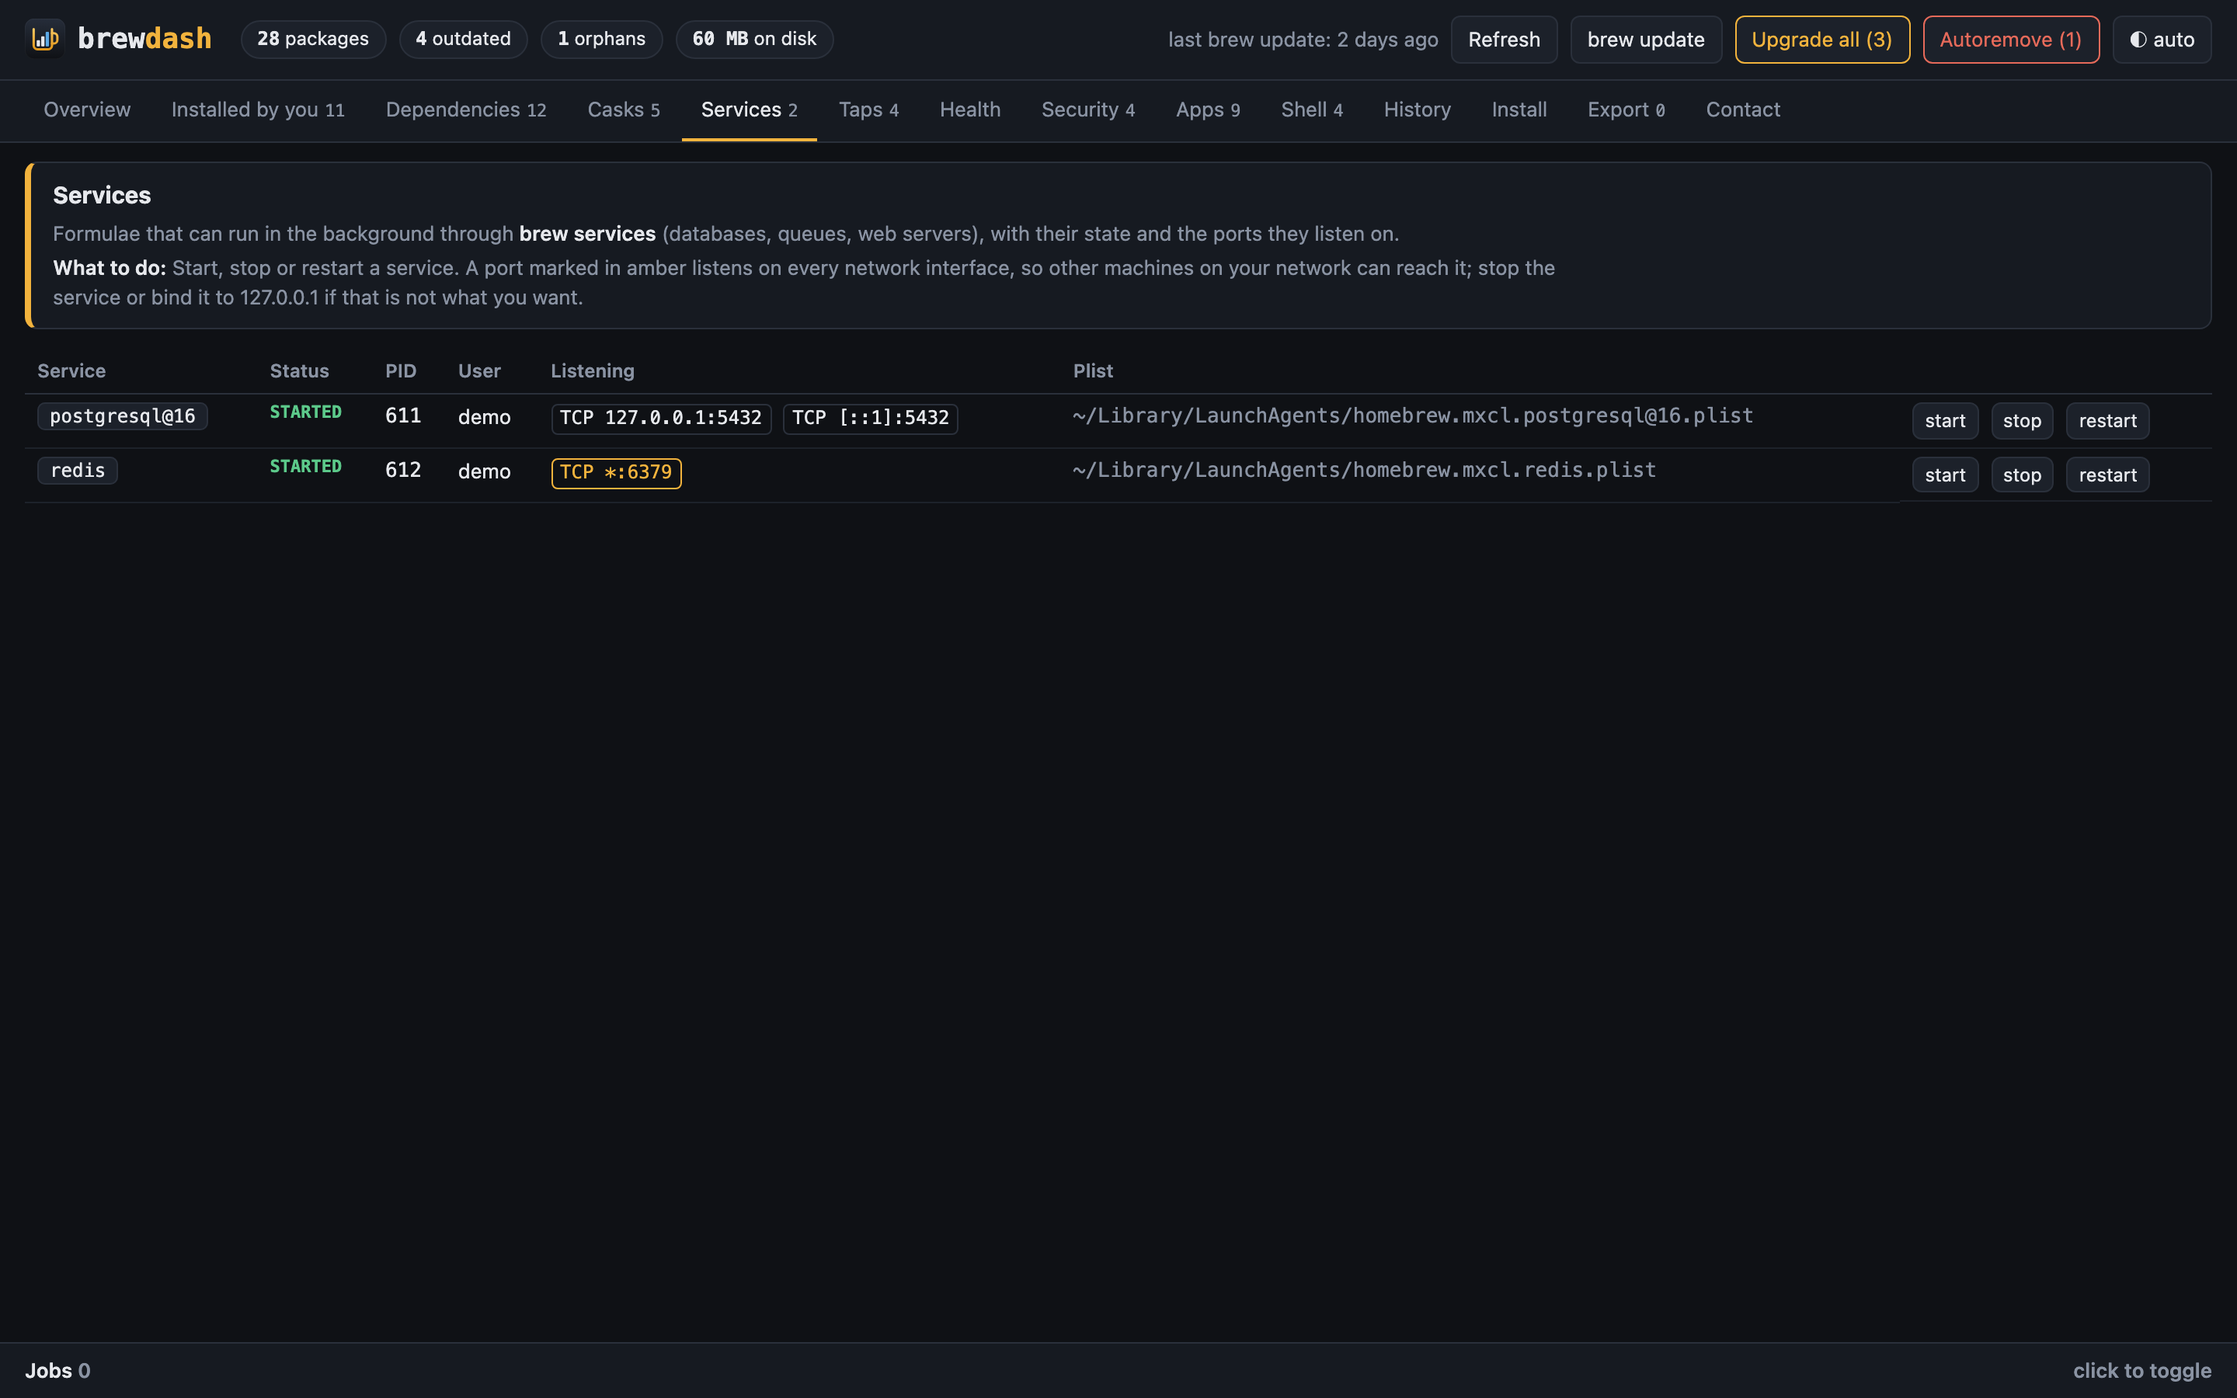
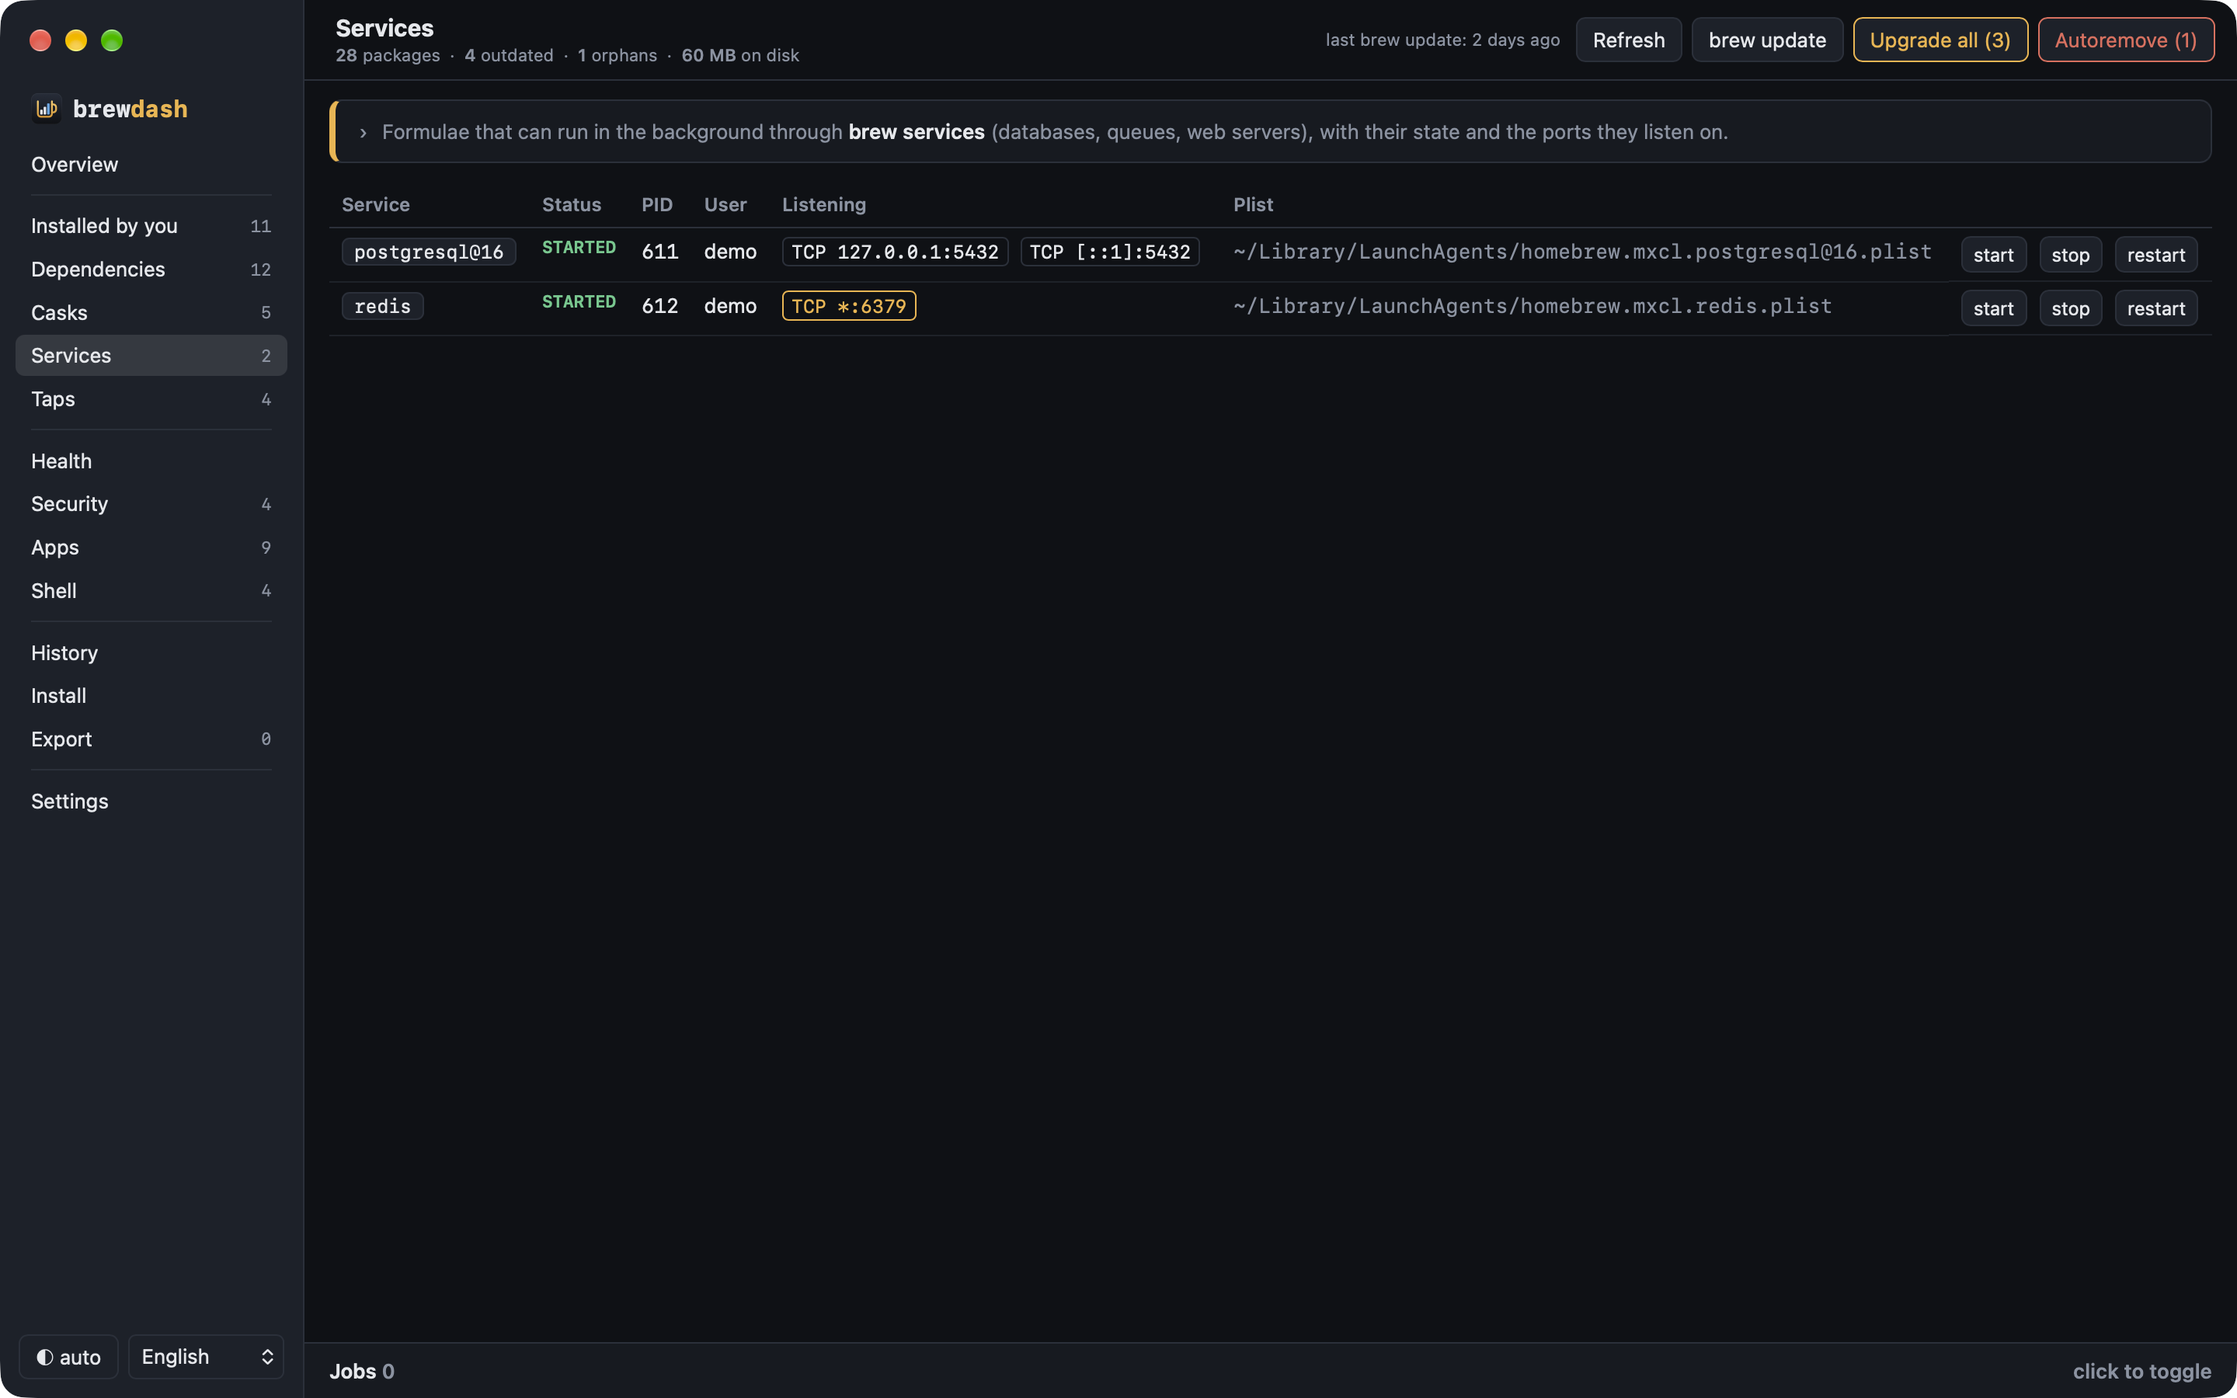
Take the screenshots from the Mac app instead of a browser
scripts/screenshots.py now builds scripts/screenshots.swift, which opens the
app's own window (AppDelegate.makeWindow) on the demo and saves it with
screencapture, in light and dark. The README and the Pages tour show the
sidebar layout of the app, not the browser one. The images are taken only
while the window is in front, since an inactive window draws its buttons
grey, and reach docs/screenshots only once every one of them was written.

diff --git a/scripts/screenshots.swift b/scripts/screenshots.swift
@@ -1,0 +1,183 @@
+// Compiled with macos/brewdash.swift and macos/policy.swift, with -D BREWDASH_CHECK, by scripts/screenshots.py.
+//     screenshots <dashboard url> <out folder>
+// Builds the Mac app's own window, loads the demo into it instead of a server from launch.sh, and saves the window
+// once per view and appearance with screencapture, which needs Screen Recording for the app that runs this.
+import Cocoa
+import WebKit
+
+let shots: [(file: String, tab: String, detailRow: String?)] = [
+    ("overview", "overview", nil),
+    ("packages", "requested", "f:node"),
+    ("security", "security", nil),
+    ("services", "services", nil),
+    ("apps", "apps", nil),
+    ("shell", "shell", nil),
+]
+// The aspect the Pages tour lays the images out in (.shot img in docs/index.html).
+let windowSize = NSSize(width: 1440, height: 900)
+
+@main
+enum Screenshots {
+    static func main() {
+        let args = CommandLine.arguments
+        guard args.count == 3, let url = URL(string: args[1]) else {
+            FileHandle.standardError.write("usage: screenshots <dashboard url> <out folder>\n".data(using: .utf8)!)
+            exit(2)
+        }
+        let app = NSApplication.shared
+        let shooter = Shooter(url: url, out: URL(fileURLWithPath: args[2]))
+        app.delegate = shooter
+        app.setActivationPolicy(.regular)
+        app.run()
+    }
+}
+
+enum ShotError: Error, CustomStringConvertible {
+    case timedOut(String), screencapture(Int32)
+    var description: String {
+        switch self {
+        case .timedOut(let what): return "timed out waiting for \(what)"
+        case .screencapture(let status): return "screencapture exited with \(status)"
+        }
+    }
+}
+
+final class Shooter: NSObject, NSApplicationDelegate {
+    let url: URL
+    let out: URL
+    let brewdash = AppDelegate()
+
+    init(url: URL, out: URL) {
+        self.url = url
+        self.out = out
+    }
+
+    func applicationDidFinishLaunching(_ note: Notification) {
+        brewdash.makeWindow()
+        let window = brewdash.window!
+        // Otherwise the frame below is saved in this program's defaults domain.
+        window.setFrameAutosaveName("")
+        // screencapture saves the window at its screen's scale: the sharpest screen that holds it gives 2x images.
+        guard let screen = NSScreen.screens
+            .filter({ $0.visibleFrame.width >= windowSize.width && $0.visibleFrame.height >= windowSize.height })
+            .max(by: { $0.backingScaleFactor < $1.backingScaleFactor }) else {
+            FileHandle.standardError.write("screenshots: no screen holds a \(Int(windowSize.width))x\(Int(windowSize.height)) window\n".data(using: .utf8)!)
+            exit(1)
+        }
+        let area = screen.visibleFrame
+        window.setFrame(NSRect(x: area.midX - windowSize.width / 2, y: area.midY - windowSize.height / 2,
+                               width: windowSize.width, height: windowSize.height), display: true)
+        // The waits below look for English text, and the theme follows NSApp.appearance only while it is auto.
+        brewdash.webView.configuration.userContentController.addUserScript(WKUserScript(
+            source: "localStorage.setItem('brewdash-lang', 'en'); localStorage.setItem('brewdash-theme', 'auto');",
+            injectionTime: .atDocumentStart, forMainFrameOnly: true))
+        for (name, action) in [(NSApplication.didBecomeActiveNotification, #selector(cameToFront)),
+                               (NSWindow.didBecomeKeyNotification, #selector(cameToFront)),
+                               (NSApplication.didResignActiveNotification, #selector(leftFront)),
+                               (NSWindow.didResignKeyNotification, #selector(leftFront))] {
+            NotificationCenter.default.addObserver(self, selector: action, name: name, object: nil)
+        }
+        brewdash.dashboard = url
+        brewdash.webView.load(URLRequest(url: url))
+        window.makeKeyAndOrderFront(nil)
+        NSApp.activate(ignoringOtherApps: true)
+        Task { @MainActor in
+            do {
+                try await shoot()
+                exit(0)
+            } catch {
+                FileHandle.standardError.write("screenshots: \(error)\n".data(using: .utf8)!)
+                exit(1)
+            }
+        }
+    }
+
+    @MainActor func js(_ source: String) async throws -> Any? {
+        try await brewdash.webView.evaluateJavaScript(source)
+    }
+
+    @MainActor func wait(for condition: String, _ what: String) async throws {
+        let deadline = Date().addingTimeInterval(20)
+        while Date() < deadline {
+            if (try? await js("!!(\(condition))")) as? Bool == true { return }
+            try await Task.sleep(nanoseconds: 100_000_000)
+        }
+        throw ShotError.timedOut(what)
+    }
+
+    @MainActor func shoot() async throws {
+        try await wait(for: "document.readyState === 'complete' && document.documentElement.classList.contains('app')", "the page")
+        try await wait(for: """
+            [...document.querySelectorAll('.tile')].some(t => t.textContent.includes('on disk') && t.querySelector('.tile-value')?.textContent.trim() !== '…')
+            """, "the disk use tile")
+        try await wait(for: "[...document.querySelectorAll('.att')].some(a => a.textContent.includes('apps without a real signature'))",
+                       "the app signatures in Needs attention")
+        try FileManager.default.createDirectory(at: out, withIntermediateDirectories: true)
+        for scheme in ["light", "dark"] {
+            NSApp.appearance = NSAppearance(named: scheme == "dark" ? .darkAqua : .aqua)
+            try await wait(for: "matchMedia('(prefers-color-scheme: dark)').matches === \(scheme == "dark")", "the \(scheme) appearance")
+            for shot in shots {
+                _ = try await js("document.querySelector('nav button[data-tab=\"\(shot.tab)\"]').click()")
+                if let row = shot.detailRow {
+                    _ = try await js("document.querySelector('tr.row[data-id=\"\(row)\"] td:nth-child(2)').click()")
+                    try await wait(for: "document.querySelector('#graph canvas')", "the graph of \(row)")
+                }
+                try await Task.sleep(nanoseconds: 800_000_000)
+                var since: Date?
+                let deadline = Date().addingTimeInterval(120)
+                repeat {
+                    if Date() > deadline { throw ShotError.timedOut("the window to stay in front for \(shot.file)-\(scheme)") }
+                    since = try await comeToFront()
+                    try await capture(out.appendingPathComponent("\(shot.file)-\(scheme).png"))
+                } while !inFront() || frontSince != since
+                if shot.detailRow != nil { _ = try await js("document.querySelector('#detail [data-close]').click()") }
+            }
+        }
+    }
+
+    // A window of an app that is not in front draws its buttons grey and takes a moment to colour them again, and a
+    // click anywhere else during the run takes the front away. frontSince is when the window last came to the front,
+    // nil while it is not there; the notifications also catch a front lost and won back while nothing polls.
+    var frontSince: Date?
+    @objc func cameToFront() { frontSince = Date() }
+    @objc func leftFront() { frontSince = nil }
+
+    // NSApp.isActive and isKeyWindow have both said true over a grey capture, so the system's frontmost app is asked
+    // as well.
+    @MainActor func inFront() -> Bool {
+        let front = NSWorkspace.shared.frontmostApplication?.processIdentifier == getpid() && brewdash.window.isKeyWindow
+        if !front { frontSince = nil } else if frontSince == nil { frontSince = Date() }
+        return front
+    }
+
+    // Returns frontSince once the window has been in front long enough to draw its buttons in colour.
+    @MainActor func comeToFront() async throws -> Date? {
+        if !inFront() {
+            NSApp.activate(ignoringOtherApps: true)
+            brewdash.window.makeKeyAndOrderFront(nil)
+        }
+        var asked = false
+        let start = Date()
+        while !inFront() || Date().timeIntervalSince(frontSince ?? Date()) < 0.5 {
+            if !asked && !inFront() && Date().timeIntervalSince(start) > 2 {
+                FileHandle.standardError.write("screenshots: the brewdash window is not in front; click it\n".data(using: .utf8)!)
+                asked = true
+            }
+            if Date().timeIntervalSince(start) > 120 { throw ShotError.timedOut("the window to come to the front") }
+            try await Task.sleep(nanoseconds: 100_000_000)
+        }
+        return frontSince
+    }
+
+    // -o leaves out the shadow: the Pages tour draws its own frame around the image (.shot in docs/index.html).
+    @MainActor func capture(_ file: URL) async throws {
+        let p = Process()
+        p.executableURL = URL(fileURLWithPath: "/usr/sbin/screencapture")
+        p.arguments = ["-x", "-o", "-l", String(brewdash.window.windowNumber), file.path]
+        let status: Int32 = try await withCheckedThrowingContinuation { done in
+            p.terminationHandler = { done.resume(returning: $0.terminationStatus) }
+            do { try p.run() } catch { done.resume(throwing: error) }
+        }
+        guard status == 0 else { throw ShotError.screencapture(status) }
+    }
+}

diff --git a/macos/brewdash.swift b/macos/brewdash.swift
@@ -323,7 +323,7 @@ final class AppDelegate: NSObject, NSApplicationDelegate, NSWindowDelegate, WKNa
     }
 }
 
-// tests/window_check.swift brings its own main.
+// A program built with -D BREWDASH_CHECK brings its own main.
 #if !BREWDASH_CHECK
 @main
 enum Main {

diff --git a/scripts/screenshots.py b/scripts/screenshots.py
@@ -1,53 +1,45 @@
-"""Takes the README screenshots from the demo (scripts/demo.py), in light and dark.
+"""Takes the README and Pages screenshots of the Mac app on the demo (scripts/demo.py), in light and dark.
 
-    .venv/bin/python scripts/screenshots.py
+    python3 scripts/screenshots.py
 
-Needs Playwright for Python (see CONTRIBUTING.md). Writes docs/screenshots/*.png.
+Builds scripts/screenshots.swift with swiftc, which opens the app's own window on the demo and saves it with
+screencapture, so the app you run this from needs Screen Recording (System Settings > Privacy & Security).
+Writes docs/screenshots/*.png at the scale of the sharpest screen that holds a 1440x900 window.
 """
+import shutil
+import subprocess
 import sys
+import tempfile
 from pathlib import Path
 
-from playwright.sync_api import sync_playwright
-
-sys.path.insert(0, str(Path(__file__).resolve().parent))
+ROOT = Path(__file__).resolve().parent.parent
+sys.path.insert(0, str(ROOT / "scripts"))
 import demo  # noqa: E402
 
-OUT = Path(__file__).resolve().parent.parent / "docs" / "screenshots"
-
-# (file name, tab, row to open in the detail panel or None)
-SHOTS = [
-    ("overview", "overview", None),
-    ("packages", "requested", "f:node"),
-    ("security", "security", None),
-    ("services", "services", None),
-    ("apps", "apps", None),
-    ("shell", "shell", None),
-]
+OUT = ROOT / "docs" / "screenshots"
 
 
 def main():
-    OUT.mkdir(parents=True, exist_ok=True)
-    server, url, _ = demo.start()
-    with sync_playwright() as pw:
-        browser = pw.chromium.launch()
-        for scheme in ("light", "dark"):
-            page = browser.new_page(viewport={"width": 1440, "height": 900}, device_scale_factor=2, color_scheme=scheme)
-            page.goto(url)
-            page.wait_for_selector('.tile:has-text("on disk") .tile-value:not(:text-is("…"))')
-            page.wait_for_selector('.att:has-text("apps without a real signature")')
-            for name, tab, row in SHOTS:
-                page.click(f'nav button[data-tab="{tab}"]')
-                if row:
-                    page.click(f'tr.row[data-id="{row}"] td:nth-child(2)')
-                    page.wait_for_selector("#graph canvas")
-                    page.wait_for_timeout(600)
-                page.screenshot(path=str(OUT / f"{name}-{scheme}.png"))
-                if row:
-                    page.click("#detail [data-close]")
-            page.close()
-        browser.close()
-    server.shutdown()
-    print("\n".join(sorted(str(p.relative_to(OUT.parent.parent)) for p in OUT.glob("*.png"))))
+    with tempfile.TemporaryDirectory() as tmp:
+        exe = Path(tmp) / "screenshots"
+        subprocess.run(["swiftc", "-swift-version", "5", "-parse-as-library", "-D", "BREWDASH_CHECK", "-o", str(exe),
+                        str(ROOT / "scripts" / "screenshots.swift"), str(ROOT / "macos" / "brewdash.swift"),
+                        str(ROOT / "macos" / "policy.swift")], check=True)
+        shots = Path(tmp) / "shots"
+        server, url, _ = demo.start()
+        try:
+            subprocess.run([str(exe), url, str(shots)], check=True)
+        finally:
+            server.shutdown()
+        # A run that stops halfway leaves docs/screenshots as it was, not half old and half new.
+        made = sorted(p.name for p in shots.glob("*.png"))
+        missing = sorted({p.name for p in OUT.glob("*.png")} - set(made))
+        if not made or missing:
+            sys.exit("screenshots: the harness did not write " + (", ".join(missing) or "any image"))
+        OUT.mkdir(parents=True, exist_ok=True)
+        for name in made:
+            shutil.copyfile(shots / name, OUT / name)
+    print("\n".join(str((OUT / name).relative_to(ROOT)) for name in made))
 
 
 if __name__ == "__main__":

diff --git a/CONTRIBUTING.md b/CONTRIBUTING.md
@@ -18,7 +18,7 @@ python3 brewdash.py                  # run it against your own Homebrew
 python3 scripts/demo.py              # or against made-up data
 ```
 
-For the browser tests and the screenshots you need Playwright:
+For the browser tests and the icons you need Playwright:
 
 ```sh
 python3 -m venv .venv && .venv/bin/pip install playwright
@@ -49,7 +49,8 @@ python3 -m venv .venv && .venv/bin/pip install playwright
    should fail if the line it protects is removed.
 3. Run the whole suite, including the browser tests, before you push.
 4. If the change is visible, run `scripts/screenshots.py` and include the
-   updated screenshots.
+   updated screenshots. It opens the Mac app on the demo and needs `swiftc`
+   and Screen Recording for the app you run it from.
 5. Add a line under *Unreleased* in [CHANGELOG.md](CHANGELOG.md).
 6. Fill in the pull request template.
 

diff --git a/README.md b/README.md
@@ -316,7 +316,7 @@ python3 -m unittest discover -s tests          # unit tests; the UI tests skip w
 python3 -m venv .venv && .venv/bin/pip install playwright
 .venv/bin/playwright install chromium          # only if no matching Chromium is cached
 .venv/bin/python -m unittest discover -s tests # unit and browser tests
-.venv/bin/python scripts/screenshots.py        # regenerate docs/screenshots from the demo
+python3 scripts/screenshots.py                 # regenerate docs/screenshots: the Mac app on the demo
 .venv/bin/python scripts/icons.py              # regenerate the favicons and app icon from web/logo.svg
 ```
 
